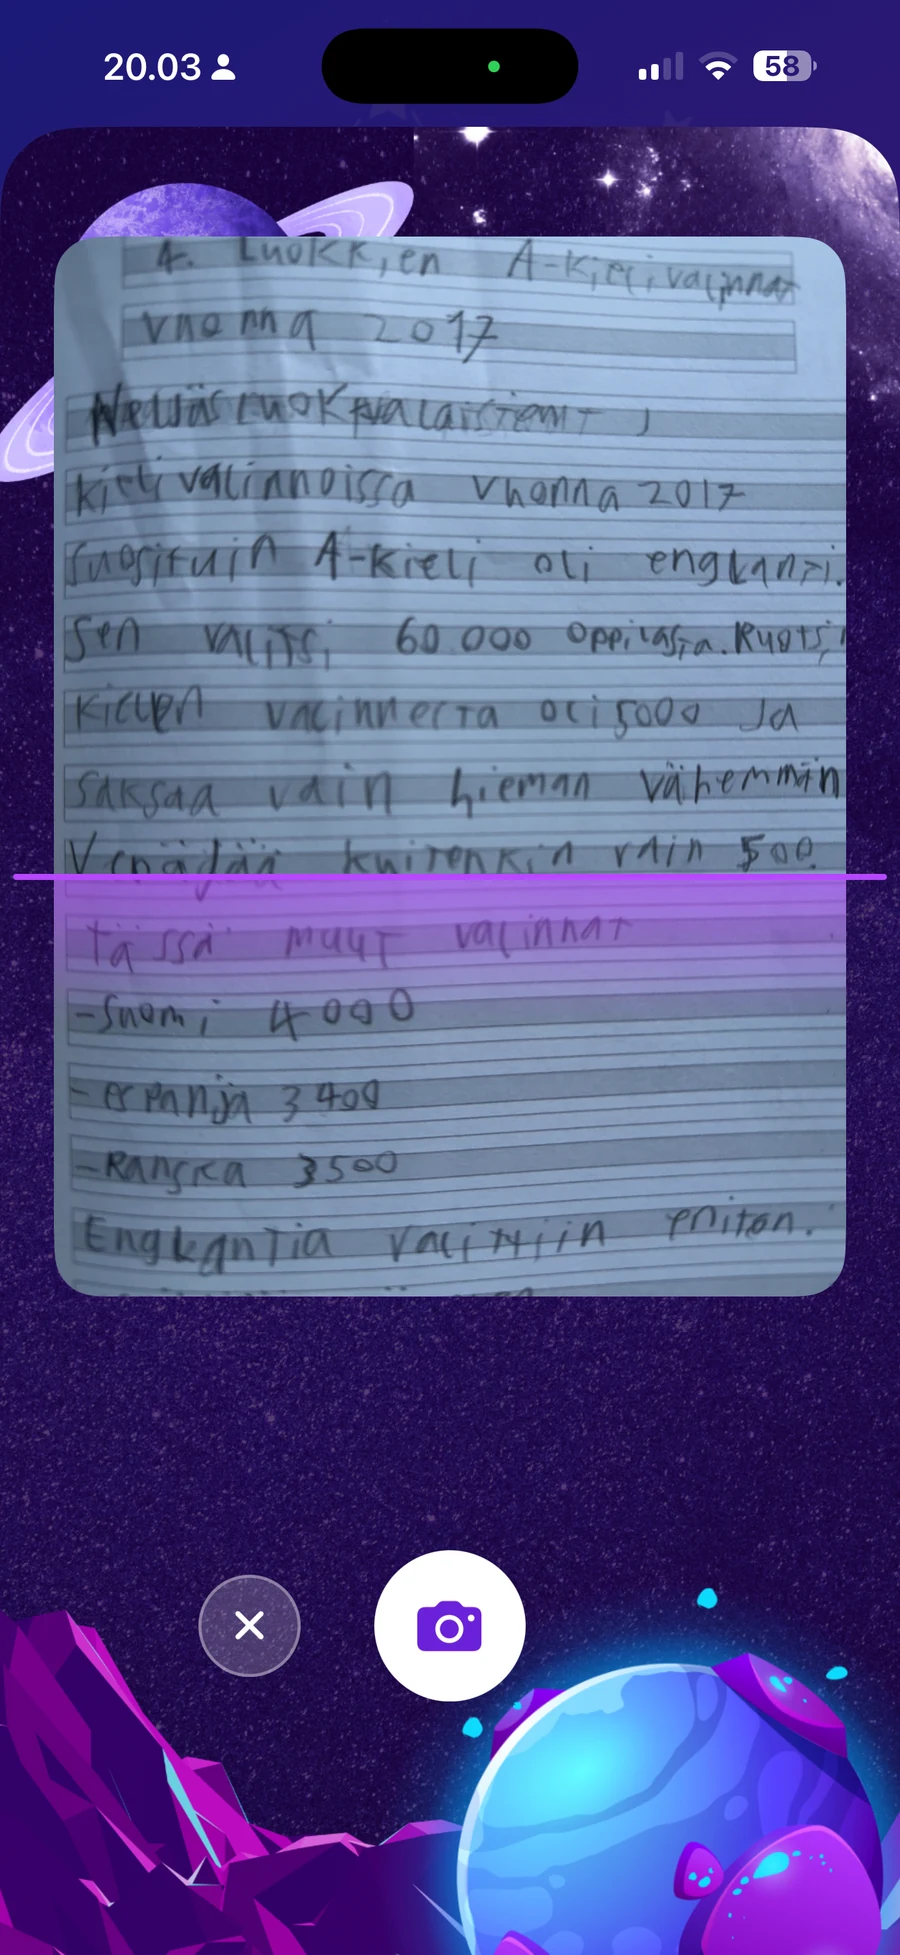
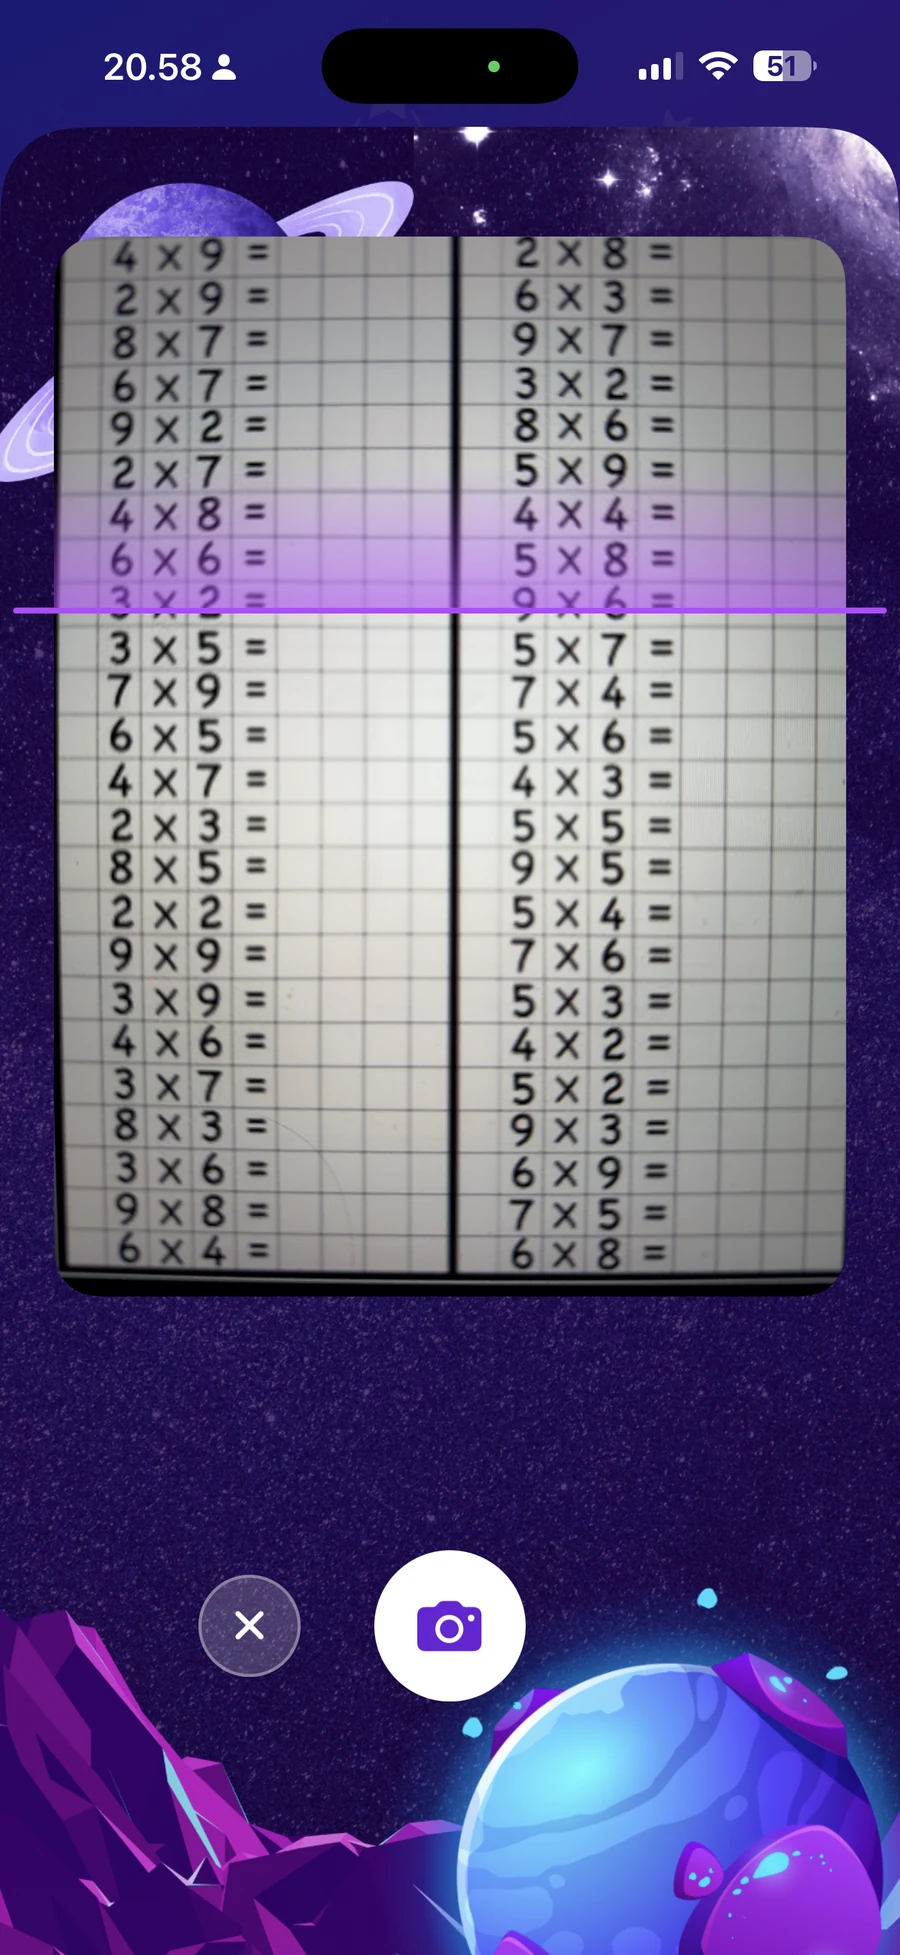
Add files via upload

diff --git a/en/index.html b/en/index.html
@@ -4,7 +4,7 @@
 <meta charset="utf-8">
 <meta name="viewport" content="width=device-width, initial-scale=1">
 
-<title>Will·e – learn by playing</title>
+<title>Will·e – an AI teacher for school-age children</title>
 <meta name="description" content="Will·e turns what's on the test into practice questions and friend challenges. Snap, play, challenge a friend. Built for ages 7–16. First week free.">
 <link rel="canonical" href="https://will-e.app/en/">
 <link rel="alternate" hreflang="fi" href="https://will-e.app/">
@@ -15,7 +15,7 @@
 <meta property="og:site_name" content="Will·e">
 <meta property="og:locale" content="en_US">
 <meta property="og:url" content="https://will-e.app/en/">
-<meta property="og:title" content="Will·e – learn by playing">
+<meta property="og:title" content="Will·e – an AI teacher for school-age children">
 <meta property="og:description" content="Snap the topic and Will·e turns it into practice questions. Play, challenge a friend, travel through space.">
 <meta property="og:image" content="https://will-e.app/assets/og-image.png">
 <meta name="twitter:card" content="summary_large_image">
@@ -189,16 +189,15 @@
       <span class="stop" aria-hidden="true"></span>
       <div class="feature-text">
         <span class="rule" aria-hidden="true"></span>
-        <h2>Challenge your friends<em>and see who wins</em></h2>
+        <h2>Track your own progress</h2>
         <p>
-          The same ten questions for both players. Answering a challenge
-          someone sent you is always free, subscription or not.
+          History shows day by day and week by week what has been practised and how it went. Parents can choose to receive an email summary: what is going well and which questions still need review.
         </p>
       </div>
       <div class="feature-shot glow-wrap">
         <span class="shot">
           <img src="../assets/shots/en/challenge.webp" width="645" height="1398"
-             alt="The friend challenge result screen" loading="lazy">
+             alt="The study history and calendar screen" loading="lazy">
         </span>
       </div>
     </article>

diff --git a/index.html b/index.html
@@ -28,7 +28,7 @@
 </script>
 
 
-<title>Will·e – opi pelaamalla</title>
+<title>Will·e – tekoälyopettaja peruskoululaisille</title>
 <meta name="description" content="Will·e tekee koealueesta harjoituskysymyksiä ja kaverihaasteita. Kuvaa, pelaa, haasta kaveri. Peruskoulun 1.–9. luokille. Ensimmäinen viikko ilmaiseksi.">
 <link rel="canonical" href="https://will-e.app/">
 <link rel="alternate" hreflang="fi" href="https://will-e.app/">
@@ -39,7 +39,7 @@
 <meta property="og:site_name" content="Will·e">
 <meta property="og:locale" content="fi_FI">
 <meta property="og:url" content="https://will-e.app/">
-<meta property="og:title" content="Will·e – opi pelaamalla">
+<meta property="og:title" content="Will·e – tekoälyopettaja peruskoululaisille">
 <meta property="og:description" content="Kuvaa koealue, ja Will·e tekee siitä harjoituskysymyksiä. Pelaa, haasta kaveri, etene avaruudessa.">
 <meta property="og:image" content="https://will-e.app/assets/og-image.png">
 <meta name="twitter:card" content="summary_large_image">
@@ -219,16 +219,15 @@
       <span class="stop" aria-hidden="true"></span>
       <div class="feature-text">
         <span class="rule" aria-hidden="true"></span>
-        <h2>Haasta kavereita kysymyksillä<em>ja katso kumpi voittaa</em></h2>
+        <h2>Seuraa omaa oppimista</h2>
         <p>
-          Sama kymmenen kysymyksen sarja molemmille. Kaverin lähettämään
-          haasteeseen voi vastata aina ilmaiseksi, myös ilman tilausta.
+          Historia näyttää päivä- ja viikkotasolla, mitä on harjoiteltu ja miten meni. Vanhempi saa halutessaan sähköpostiinsa yhteenvedon: mikä sujuu vahvasti ja mitkä kysymykset kaipaavat vielä kertausta.
         </p>
       </div>
       <div class="feature-shot glow-wrap">
         <span class="shot">
           <img src="assets/shots/fi/challenge.webp" width="645" height="1398"
-             alt="Kaverihaasteen tulosnäkymä" loading="lazy">
+             alt="Opiskeluhistoria ja kalenterinäkymä" loading="lazy">
         </span>
       </div>
     </article>
